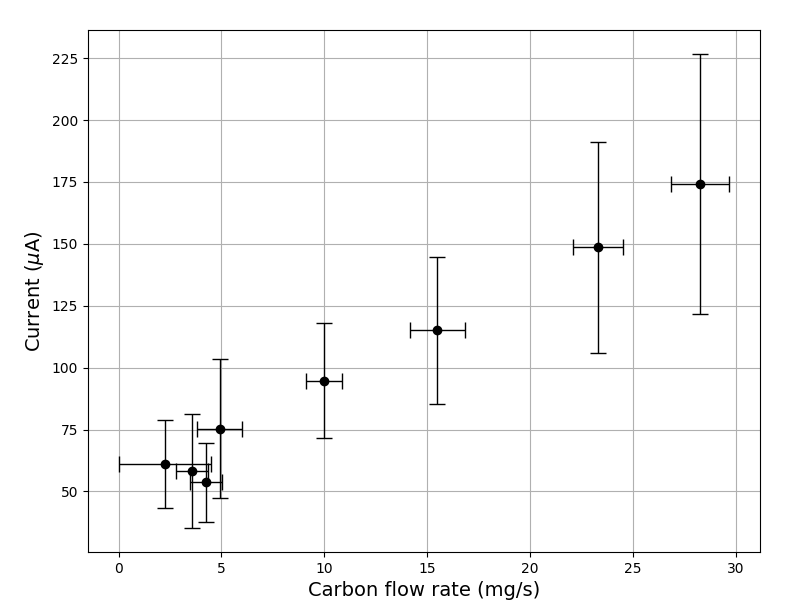
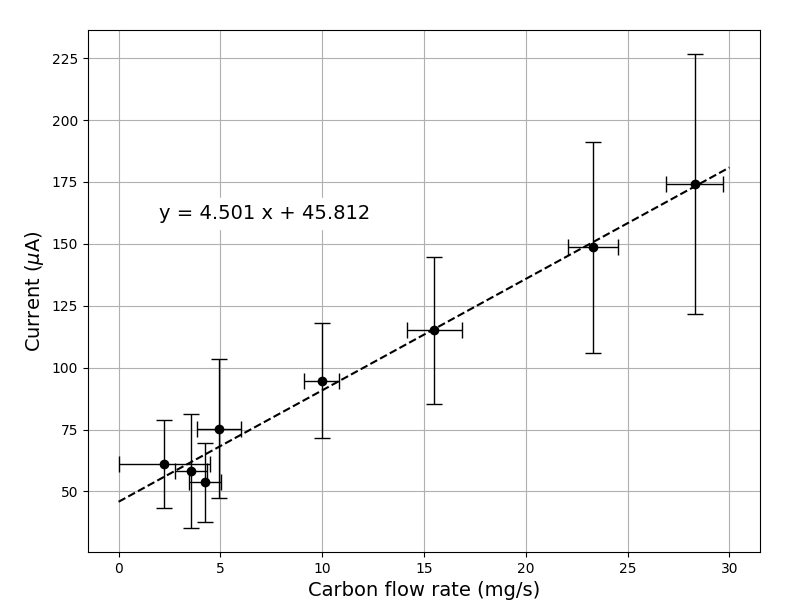
Refined plot for publication, added linear fit.

diff --git a/bin/post2.py b/bin/post2.py
@@ -40,8 +40,14 @@ for arg in sys.argv[1:]:
     i_std_ua.append(post1['i_std_ua'])
     mfr_std_mgps.append(1./post1['duration_s'])
 
+C = np.polyfit(mfr_mgps, i_mean_ua, 1)
+x = np.linspace(0,30,21)
+y = np.polyval(C,x)
+
 ax = lplot.init_fig('Carbon flow rate (mg/s)', 'Current ($\mu$A)', label_size=14)
 ax.errorbar(mfr_mgps, i_mean_ua, yerr=i_std_ua, xerr=mfr_std_mgps, fmt='ko', mfc='k', lc=None, ecolor='k', elinewidth=1, capsize=6)
+ax.plot(x,y,'k--')
+ax.text(2,160,f'y = {C[0]:.3f} x + {C[1]:.3f}',fontsize=14,backgroundcolor='w')
 ax.get_figure().savefig('../export/im.png')
 
 with open('../export/post2.param', 'w') as ff:
